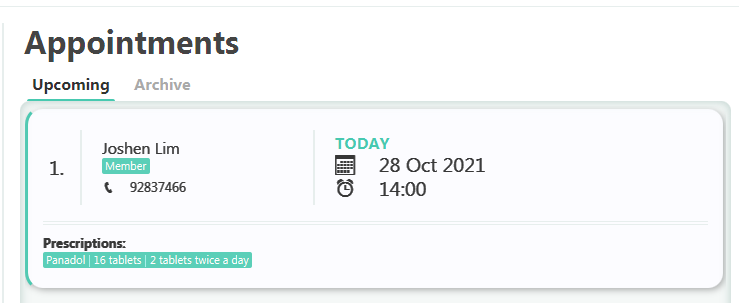
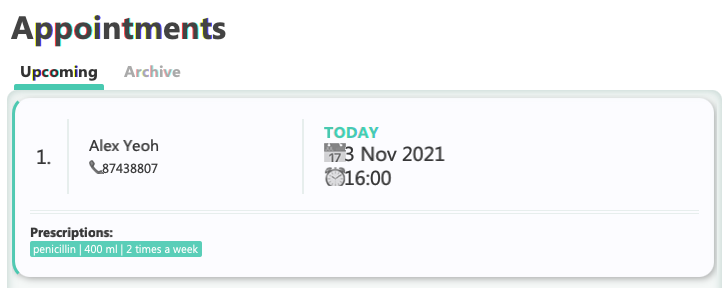
Remove tags from UG and DG (#248)
* Remove mentions of v1.4

* Remove tags from UG and DG

* Update DG with UML diagram

Changed region(s): [[0.0, 0.0312, 1.0, 1.0], [0.4248, 0.4375, 0.6676, 0.6562], [0.1214, 0.4688, 0.2731, 0.6562]]

diff --git a/src/main/java/seedu/docit/logic/commands/AddPatientCommand.java b/src/main/java/seedu/docit/logic/commands/AddPatientCommand.java
@@ -20,15 +20,12 @@ public class AddPatientCommand extends PatientCommand {
             + CliSyntax.PREFIX_PHONE + "PHONE "
             + CliSyntax.PREFIX_EMAIL + "EMAIL "
             + CliSyntax.PREFIX_ADDRESS + "ADDRESS "
-            + "[" + CliSyntax.PREFIX_TAG + "TAG]... "
             + "[" + CliSyntax.PREFIX_MEDICAL + "MEDICAL HISTORY]...\n"
             + "Example: pt " + COMMAND_WORD + " "
             + CliSyntax.PREFIX_NAME + "John Doe "
             + CliSyntax.PREFIX_PHONE + "98765432 "
             + CliSyntax.PREFIX_EMAIL + "johnd@example.com "
             + CliSyntax.PREFIX_ADDRESS + "311, Clementi Ave 2, #02-25 "
-            + CliSyntax.PREFIX_TAG + "friends "
-            + CliSyntax.PREFIX_TAG + "owesMoney "
             + CliSyntax.PREFIX_MEDICAL + "diabetes";
 
     public static final String MESSAGE_SUCCESS = "New patient added: \n%1$s";

diff --git a/src/main/java/seedu/docit/logic/parser/CliSyntax.java b/src/main/java/seedu/docit/logic/parser/CliSyntax.java
@@ -4,17 +4,14 @@ package seedu.docit.logic.parser;
  * Contains Command Line Interface (CLI) syntax definitions common to multiple commands
  */
 public class CliSyntax {
-
     /* Prefix definitions */
     public static final Prefix PREFIX_INDEX = new Prefix("i/");
     public static final Prefix PREFIX_NAME = new Prefix("n/");
     public static final Prefix PREFIX_PHONE = new Prefix("p/");
     public static final Prefix PREFIX_EMAIL = new Prefix("e/");
     public static final Prefix PREFIX_ADDRESS = new Prefix("a/");
-    public static final Prefix PREFIX_TAG = new Prefix("t/");
     public static final Prefix PREFIX_MEDICAL = new Prefix("m/");
     public static final Prefix PREFIX_DATETIME = new Prefix("d/");
     public static final Prefix PREFIX_VOLUME = new Prefix("v/");
     public static final Prefix PREFIX_DURATION = new Prefix("d/");
-
 }

diff --git a/docs/UserGuide.md b/docs/UserGuide.md
@@ -103,7 +103,7 @@ understanding of basic functionalities of `Doc'it`, before diving into specific 
   e.g. in `add n/NAME`, `NAME` is a parameter which can be used as `add n/John Doe`.
 
 * Items in square brackets are optional.<br>
-  e.g. `n/NAME [t/TAG]` can be used as `n/John Doe t/friend` or as `n/John Doe`.
+  e.g. `n/NAME [m/MEDICAL_HISTORY]` can be used as `n/John Doe m/cancer` or as `n/John Doe`.
 
 * Items with `…`  after them can be used multiple times including zero times.<br>
   e.g. `[m/MEDICAL_HISTORY]… ` can be used as ` ` (i.e. 0 times), `m/Diabetes`, `m/Scoliosis m/High Blood Pressure` etc.
@@ -163,7 +163,7 @@ records.
 
 Creates a new patient record.
 
-**Format:** `pt add n/NAME p/PHONE_NUMBER e/EMAIL a/ADDRESS [m/MEDICAL_HISTORY]... [t/TAG]`
+**Format:** `pt add n/NAME p/PHONE_NUMBER e/EMAIL a/ADDRESS [m/MEDICAL_HISTORY]...`
 
 - `MEDICAL_HISTORY` is optional; if `MEDICAL_HISTORY` is not given, an empty string of text will be used.
 - `MEDICAL_HISTORY` can be added multiple times within a single `pt add` command, as indicated by the ```...``` used.
@@ -191,7 +191,7 @@ Format: `pt list`
 
 Edits the details of a specified patient.
 
-**Format:** `pt edit INDEX [n/NAME] [p/PHONE_NUMBER] [e/EMAIL] [a/ADDRESS] [t/TAG] [m/MEDICAL_HISTORY]`
+**Format:** `pt edit INDEX [n/NAME] [p/PHONE_NUMBER] [e/EMAIL] [a/ADDRESS] [m/MEDICAL_HISTORY]`
 - All fields are optional but if stated, must not be null or empty
 - `INDEX` is compulsory when making an edit to patient details
 
@@ -246,7 +246,7 @@ pt ma 1 m/diabetes
 **Expected Outcome:**
 ```
 Updated: 
-Alex Yeoh; Phone: 87438807; Email: alexyeoh@example.com; Address: Blk 30 Geylang Street 29, #06-40; Tags: [friends]; Medical History: diabetes, recorded 28 Oct 2021, high blood pressure, recorded 28 Oct 2021, diabetes, recorded 28 Oct 2021
+Alex Yeoh; Phone: 87438807; Email: alexyeoh@example.com; Address: Blk 30 Geylang Street 29, #06-40; Medical History: diabetes, recorded 28 Oct 2021, high blood pressure, recorded 28 Oct 2021, diabetes, recorded 28 Oct 2021
 ```
 
 ---
@@ -265,7 +265,7 @@ Deletes a medical history to the Patient Record.
 **Expected Outcome:**
 ```
 Updated: 
-Alex Yeoh; Phone: 87438807; Email: alexyeoh@example.com; Address: Blk 30 Geylang Street 29, #06-40; Tags: [friends]; Medical History: high blood pressure, recorded 28 Oct 2021, diabetes, recorded 28 Oct 2021
+Alex Yeoh; Phone: 87438807; Email: alexyeoh@example.com; Address: Blk 30 Geylang Street 29, #06-40; Medical History: high blood pressure, recorded 28 Oct 2021, diabetes, recorded 28 Oct 2021
 ```
 
 
@@ -479,7 +479,6 @@ Medicine: panadol
 
 from John Doe's appointment.
 ```
----
 
 --------------------------------------------------------------------------------------------------------------------
 
@@ -501,16 +500,15 @@ from John Doe's appointment.
 | Exit        | `doc exit`    |
 
 ### Patient-related Commands
-
-| Command | Format| Example                                                                                            |
-|---------|---------------------------------------------------------------------------------------------|----------------------------------------------------------------------------------------------------|
-| Add     | `pt add n/NAME p/PHONE_NUMBER e/EMAIL a/ADDRESS [t/TAG] [m/MEDICAL_HISTORY]...`                | `pt add n/James Ho p/22224444 e/jamesho@example.com a/123, Clementi Rd, 1234665 m/cancer t/friend` |
-| Delete  | `pt delete INDEX`                                                                           | `pt delete 3`                                                                                      |
-| Edit    | `pt edit INDEX [n/NAME] [p/PHONE_NUMBER] [e/EMAIL] [a/ADDRESS] [t/TAG] [m/MEDICAL_HISTORY]` | `pt edit 2 n/James Lee e/jameslee@example.com`                                                     |
-| Find    | `pt find n/NAME`                                                                            | `pt find n/James Jake`                                                                             |
-| List    | `pt list`                                                                                   | -                                                    
-| Add Medical History | `pt ma INDEX m/MEDICAL_HISTORY` | `pt ma 1 m/diabetes` 
-| Delete Medical History | `pt md INDEX i/MEDICAL_HISTORY_INDEX` | `pt md 1 i/1`
+| Command | Format                                                                                      | Example                                                                                                   |
+|---------|---------------------------------------------------------------------------------------------|-----------------------------------------------------------------------------------------------------------|
+| Add                     | `pt add n/NAME p/PHONE_NUMBER e/EMAIL a/ADDRESS [m/MEDICAL_HISTORY]...`                     | `pt add n/James Ho p/22224444 e/jamesho@example.com a/123, Clementi Rd, 1234665 m/cancer` |
+| Delete                  | `pt delete INDEX`                                                                           | `pt delete 3`                                                                             |
+| Edit                    | `pt edit INDEX [n/NAME] [p/PHONE_NUMBER] [e/EMAIL] [a/ADDRESS] [m/MEDICAL_HISTORY]`         | `pt edit 2 n/James Lee e/jameslee@example.com`                                            |
+| Find                    | `pt find n/NAME`                                                                            | `pt find n/James Jake`                                                                    |
+| List                    | `pt list`                                                                                   | -                                                                                         |
+| Add Medical History     | `pt ma INDEX m/MEDICAL_HISTORY`                                                             | `pt ma 1 m/diabetes`                                                                      |
+| Delete Medical History  | `pt md INDEX i/MEDICAL_HISTORY_INDEX`                                                       | `pt md 1 i/1`                                                                             |
 
 ### Appointment-related Commands
 

diff --git a/docs/DeveloperGuide.md b/docs/DeveloperGuide.md
@@ -169,9 +169,6 @@ The following is a list of commands that extend the three abstract classes:
       - `DeletePrescriptionCommand`
 
 > This taxonomy of commands is further reflected on the Parser's side as well.
- 
-=======
-
 
 **Parser** <br>
 The `Parser` interface is broken into three sub-interfaces: `BasicParser`, `PatientParser`, and `AppointmentParser`, for the parsers related to application-related commands, patient-related commands, and
@@ -200,9 +197,9 @@ The `Model` component,
 * stores a `UserPref` object that represents the user’s preferences. This is exposed to the outside as a `ReadOnlyUserPref` objects.
 * does not depend on any of the other three components (as the `Model` represents data entities of the domain, they should make sense on their own without depending on other components)
 
-<div markdown="span" class="alert alert-info">:information_source: **Note:** An alternative (arguably, a more OOP) model is given below. It has a `Tag` list in the `AddressBook`, which `Patient` references. This allows `AddressBook` to only require one `Tag` object per unique tag, instead of each `Patient` needing their own `Tag` objects.<br>
+<div markdown="span" class="alert alert-info">:information_source: **Note:** An alternative (arguably, a more OOP) model is given below.
 
-<img src="images/BetterModelClassDiagram.png" width="450" />
+<img src="diagrams/BetterModelClassDiagram.png" width="450" />
 
 </div>
 
@@ -392,11 +389,11 @@ appointment time (24-hour buffer), i.e. by our definition, _expired_, the appoin
 by the `ModelManager` class in two ways.
 
 1. Upon initialisation of the application, the application automatically archives expired appointments (24-hours past their
-   scheduled time). This is called through `ModelManager#archivePastAppointments()`.
-   
+   scheduled time). This is called through `ModelManager#archivePastAppointments()`. 
 
-2. A `ScheduledExecutorService` object schedules the task `AutoArchiveApmts` which implements the `Runnable` interface. Every
-    day at the `ModelManager.UPDATE_HOUR`th hour, the `Runnable` object executes the `ModelManager#archivePastAppointments()`
+
+2. A `ScheduledExecutorService` object schedules the task `AutoArchiveApmts` which implements the `Runnable` interface. 
+Every day at the `ModelManager.UPDATE_HOUR`th hour, the `Runnable` object executes the `ModelManager#archivePastAppointments()`
    method.
 
 
@@ -665,7 +662,7 @@ Priorities: High (must have) - `* * *`, Medium (nice to have) - `* *`, Low (unli
 1. User requests to list patients.
 2. `Doc'it` displays all patients.
 3. User adds an appointment, matching the appointment to the specific patient.
-4. `Doc'it` adds the appointment and tags it to the patient.
+4. `Doc'it` adds the appointment and associates it to the patient.
 
    Use case ends.
 
@@ -684,7 +681,7 @@ Priorities: High (must have) - `* * *`, Medium (nice to have) - `* *`, Low (unli
 1. User requests to list appointments.
 2. `Doc'it` displays all appointments.
 3. User requests to delete a specific appointment in the list.
-4. `Doc'it` deletes the appointment and removes the appointment tag from the originally tagged patient.
+4. `Doc'it` deletes the appointment and removes the appointment association from the originally associated patient.
 
    Use case ends.
 
